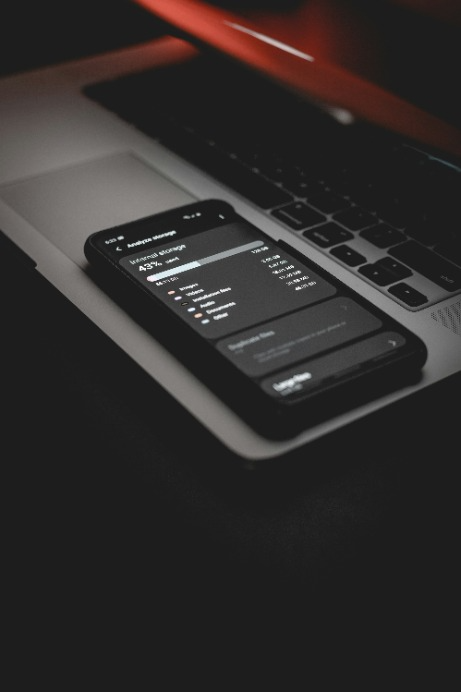
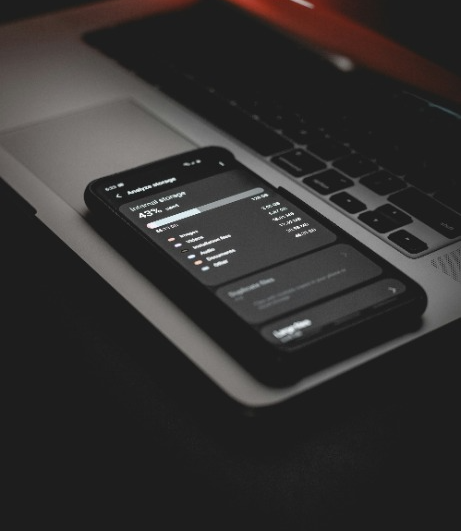
✨ Added all the blog articles content

Changed region(s): [[0.0, 0.0, 1.0, 0.7834], [0.6377, 0.2712, 0.6681, 0.3013]]

diff --git a/input/assets/styles/main.css b/input/assets/styles/main.css
@@ -94,6 +94,7 @@ a:hover {
 
 img {
     border-radius: 20px;
+    width: 100%;
 }
 
 .banner-image {

diff --git a/input/blog/effictient-workflow-with-css-preprocessors.md b/input/blog/effictient-workflow-with-css-preprocessors.md
@@ -1,0 +1,40 @@
+---
+title: Efficient Workflow with CSS Preprocessors
+pageTitle: Efficient Workflow with CSS Preprocessors
+description: Demystify CSS preprocessors such as Less and Sass, unveiling their role in streamlining stylesheet management.
+---
+
+### Demystifying CSS Preprocessors: Your Key to Streamlined Stylesheet Management
+
+#### Introduction
+
+In the realm of web development, managing stylesheets efficiently is crucial for maintaining code sanity and productivity. CSS preprocessors like Less and Sass offer developers powerful tools to streamline their workflow and enhance code organization. In this article, we'll delve into the world of CSS preprocessors, unraveling their functionalities and showcasing how they contribute to an efficient development process.
+
+#### Understanding CSS Preprocessors
+
+CSS preprocessors are scripting languages that extend the capabilities of CSS by introducing features like variables, nesting, mixins, and more. These preprocessors allow developers to write cleaner, more maintainable CSS code while reducing redundancy and increasing reusability.
+
+#### Less vs. Sass: Choosing the Right Preprocessor
+
+While Less and Sass share similar functionalities, they have differences in syntax and feature sets. Understanding these variances is essential for selecting the preprocessor that best fits your project requirements and personal preferences.
+
+#### Benefits of Using CSS Preprocessors
+
+- **Variables**: Easily define and reuse values throughout your stylesheets, promoting consistency and scalability.
+- **Nesting**: Organize CSS rules hierarchically, improving readability and reducing selector specificity.
+- **Mixins**: Create reusable blocks of CSS properties, enhancing code modularity and maintainability.
+- **Functions**: Employ built-in or custom functions to perform calculations and manipulate values dynamically.
+- **Imports**: Break down stylesheets into smaller, manageable files and import them as needed, fostering code organization and collaboration.
+
+#### Integrating CSS Preprocessors into Your Workflow
+
+- **Installation**: Set up Less or Sass in your project environment using npm, yarn, or manual installation.
+- **Configuration**: Customize preprocessor settings according to your project requirements, such as output style and source mapping.
+- **Compilation**: Compile preprocessor files into standard CSS using command-line tools or build systems like Gulp or Webpack.
+- **Optimization**: Minify and optimize compiled CSS for production deployment, ensuring optimal performance and file size.
+
+#### Conclusion
+
+CSS preprocessors like Less and Sass offer indispensable tools for modern web development, empowering developers to write cleaner, more maintainable CSS code with greater efficiency. By leveraging features such as variables, nesting, mixins, and functions, you can enhance your stylesheet management workflow and streamline the development process.
+
+![](/assets/images/Rectangle2_9.png)

diff --git a/input/blog/design-thinking-in-web-development.md b/input/blog/design-thinking-in-web-development.md
@@ -1,0 +1,35 @@
+---
+title: Design Thinking in Web Development
+pageTitle: Design Thinking in Web Development
+description: Introduce the concept of design thinking as a problem-solving methodology.
+---
+
+### Understanding Design Thinking
+
+Design thinking is a problem-solving approach that prioritizes empathy, creativity, and iterative prototyping to address complex challenges. In the realm of web development, it offers a structured framework for creating user-centric solutions.
+
+#### Empathize with Users
+
+At the core of design thinking is empathy. Developers immerse themselves in the users' experiences to gain insights into their needs, behaviors, and pain points. By understanding users on a deeper level, developers can create more meaningful and intuitive web experiences.
+
+#### Define the Problem
+
+Once developers have empathized with users, they define the problem they aim to solve. This involves distilling insights gathered during the empathy phase into actionable problem statements. Clarity in problem definition is crucial for guiding the subsequent stages of the design process.
+
+#### Ideate Creative Solutions
+
+With a clearly defined problem, developers engage in ideation to generate a wide range of potential solutions. This phase encourages divergent thinking, where no idea is too wild or impractical. By exploring various possibilities, developers can uncover innovative approaches to address the problem at hand.
+
+#### Prototype and Test
+
+Prototyping involves translating ideas into tangible representations of the final product. These prototypes can range from low-fidelity sketches to interactive mock-ups. Developers then test these prototypes with real users to gather feedback and refine their designs iteratively.
+
+### Incorporating Design Thinking into Web Development
+
+By integrating design thinking principles into the web development process, developers can create user-centered solutions that resonate with their audience. From empathizing with users to prototyping and testing, each phase of design thinking plays a crucial role in shaping the final product.
+
+![](/assets/images/Rectangle2_14.png)
+
+### Conclusion
+
+Design thinking offers web developers a powerful methodology for solving complex problems and creating user-centric experiences. By embracing empathy, creativity, and iteration, developers can design websites and applications that truly meet the needs of their users.

diff --git a/input/blog/typography-mastery.md b/input/blog/typography-mastery.md
@@ -1,0 +1,31 @@
+---
+title: Typography Mastery
+pageTitle: Typography Mastery
+description: Investigate the art of typography in web design.
+---
+
+### Understanding Typography in Web Design
+
+Typography plays a crucial role in web design, affecting both the aesthetics and functionality of a website. It encompasses font selection, spacing, sizing, and arrangement, all of which contribute to the readability and visual appeal of content. By understanding the principles of typography, designers can create websites that effectively communicate their message and engage users.
+
+![Typography Mastery](/assets/images/Rectangle2_12.png)
+
+### Importance of Font Selection
+
+The choice of fonts sets the tone for a website and influences how the content is perceived. Serif fonts convey tradition and professionalism, while sans-serif fonts are often associated with modernity and simplicity. Designers must consider factors such as readability, brand identity, and target audience when selecting fonts for a website.
+
+### Maintaining Readability and Accessibility
+
+Ensuring that text is easy to read is paramount in web design. Factors such as font size, line spacing, and contrast between text and background can significantly impact readability. Designers should prioritize accessibility by choosing fonts and styles that are legible for users with visual impairments.
+
+### Utilizing Hierarchy and Emphasis
+
+Typography allows designers to establish a hierarchy of information, guiding users through the content and highlighting key messages. By varying font sizes, weights, and styles, designers can create visual contrast and emphasize important elements such as headings, subheadings, and calls to action.
+
+### Incorporating White Space and Alignment
+
+White space, or negative space, is essential for creating balance and clarity in web design. Proper alignment of text and other elements improves readability and enhances the overall visual appeal of a website. Designers should use white space strategically to reduce clutter and draw attention to essential content.
+
+### Experimenting with Typography Trends
+
+Web design trends in typography continually evolve, reflecting changes in technology, aesthetics, and user preferences. Designers can experiment with techniques such as variable fonts, expressive typography, and kinetic typography to create unique and engaging user experiences.

diff --git a/input/blog/the-non-designers-design-book.md b/input/blog/the-non-designers-design-book.md
@@ -1,0 +1,27 @@
+---
+title: The Non-Designer's Design Book
+pageTitle: The Non-Designer's Design Book
+description: For a deeper understanding of design principles, this is a must read.
+---
+
+### Understanding Design Principles
+
+In the realm of design, one often encounters the misconception that expertise in artistry or software proficiency is the sole requirement. However, the essence of design transcends these facets. Robin Williams' "The Non-Designer's Design Book" serves as a beacon for amateurs and professionals alike, elucidating the fundamental principles underlying effective design.
+
+![](/assets/images/Rectangle2_15.png)
+
+#### Importance of Design Principles
+
+Design principles are the cornerstone of every visual creation, dictating the harmony, coherence, and legibility of a design. Without a firm grasp of these principles, designers risk producing lackluster and ineffective work. Williams' book meticulously outlines these principles, empowering readers to create compelling designs that captivate and communicate effectively.
+
+#### Visual Hierarchy
+
+One pivotal concept discussed is the notion of visual hierarchy, wherein elements are strategically arranged to guide the viewer's attention. Through judicious use of size, color, contrast, and alignment, designers can orchestrate a visual narrative that conveys the intended message with clarity and impact.
+
+#### Contrast and Repetition
+
+Furthermore, Williams delves into the significance of contrast and repetition in design. These principles imbue designs with rhythm and dynamism, fostering engagement and facilitating comprehension. By judiciously balancing these elements, designers can imbue their creations with visual interest and coherence.
+
+#### Conclusion
+
+In essence, "The Non-Designer's Design Book" transcends its titular audience, offering invaluable insights into the universal principles that underpin effective design. Whether you're a novice exploring the realm of design or a seasoned professional seeking to refine your craft, this book is an indispensable companion on your journey towards design mastery.

diff --git a/input/blog/web-design-trends-2024.md b/input/blog/web-design-trends-2024.md
@@ -1,0 +1,22 @@
+---
+title: Web Design Trends 2024
+pageTitle: Web Design Trends 2024
+description: Forecast upcoming trends in web design, considering aesthetics, functionality, and user interaction.
+---
+
+### Introduction
+Web design trends are constantly evolving, driven by advancements in technology, changes in user behavior, and aesthetic preferences. As we look ahead to 2024, it's essential to anticipate the emerging trends that will shape the digital landscape. In this article, we'll explore some of the key trends expected to dominate web design in the coming year.
+
+#### Aesthetics and Visual Elements
+In 2024, web design will continue to prioritize visually stunning aesthetics. Minimalism will remain popular, with clean layouts, ample white space, and simple color schemes. However, we'll also see an increase in bold and vibrant designs, incorporating vivid colors and striking imagery to capture users' attention.
+
+#### Functional Design Elements
+Functionality will be a central focus of web design in 2024. Websites will prioritize intuitive navigation and user-friendly interfaces to enhance the browsing experience. Interactive elements such as animations, micro-interactions, and scroll-triggered effects will engage users and provide a seamless journey through the site.
+
+#### Enhanced User Interaction
+User interaction will undergo significant enhancements in 2024, driven by advancements in technology such as AI and machine learning. Personalized experiences will become more prevalent, with websites adapting content and design based on individual user preferences and behavior. Chatbots and virtual assistants will also play a more prominent role in facilitating user interaction and providing assistance.
+
+![](/assets/images/Rectangle2_11.png)
+
+### Conclusion
+As we approach 2024, web design continues to evolve, with a focus on aesthetics, functionality, and user interaction. By staying abreast of emerging trends and technologies, designers can create compelling and immersive digital experiences that captivate audiences and drive engagement.

diff --git a/input/blog/accessibility-in-design.md b/input/blog/accessibility-in-design.md
@@ -1,0 +1,26 @@
+---
+title: Accessibility in Design
+pageTitle: Accessibility in Design
+description: Address the principles of accessible design, emphasizing the need for inclusivity in digital products.
+---
+
+### Understanding the Importance of Accessible Design
+
+In today's digital age, creating products that are accessible to everyone is not just a matter of good practice; it's a legal and ethical imperative. Accessibility in design ensures that people with disabilities can perceive, understand, navigate, and interact with digital products effectively. 
+
+### Key Principles of Accessible Design
+
+- **Perceivable:** Information and user interface components must be presentable to users in ways they can perceive.
+- **Operable:** Users must be able to operate the interface components efficiently.
+- **Understandable:** The content and operation of the interface must be understandable to users.
+- **Robust:** Content must be robust enough that it can be interpreted reliably by a wide variety of user agents, including assistive technologies.
+
+![Accessibility in Design](/assets/images/Rectangle2_10.png)
+
+### Embracing Inclusivity 
+
+By embracing accessibility in design, we not only comply with regulations but also ensure that our products are usable by the widest possible audience. Inclusivity should be at the forefront of every design decision, from color choices to navigation structures.
+
+#### Conclusion
+
+Designing with accessibility in mind isn't just the right thing to do; it's also beneficial for business. It enhances the user experience for everyone, regardless of their abilities, ultimately leading to increased user satisfaction and loyalty.

diff --git a/input/blog/the-art-of-css-animation.md b/input/blog/the-art-of-css-animation.md
@@ -1,0 +1,23 @@
+---
+title: The Art of CSS Animation
+pageTitle: The Art of CSS Animation
+description: Explore the world of CSS animation, illustrating how subtle motion can elevate user engagement.
+---
+
+![](/assets/images/Rectangle2_13.png)
+
+### Introduction
+
+CSS animation is a powerful tool for web designers and developers to enhance user experience through engaging visual effects. 
+
+#### Understanding CSS Animation
+
+CSS animations allow for the creation of dynamic and interactive elements without relying on JavaScript. 
+
+#### Benefits of CSS Animation
+
+By leveraging CSS animation, websites can achieve smoother transitions, improved interactivity, and enhanced storytelling.
+
+#### Tips for Effective CSS Animation
+
+To create captivating animations, it's essential to understand timing, easing, and keyframe animations.
